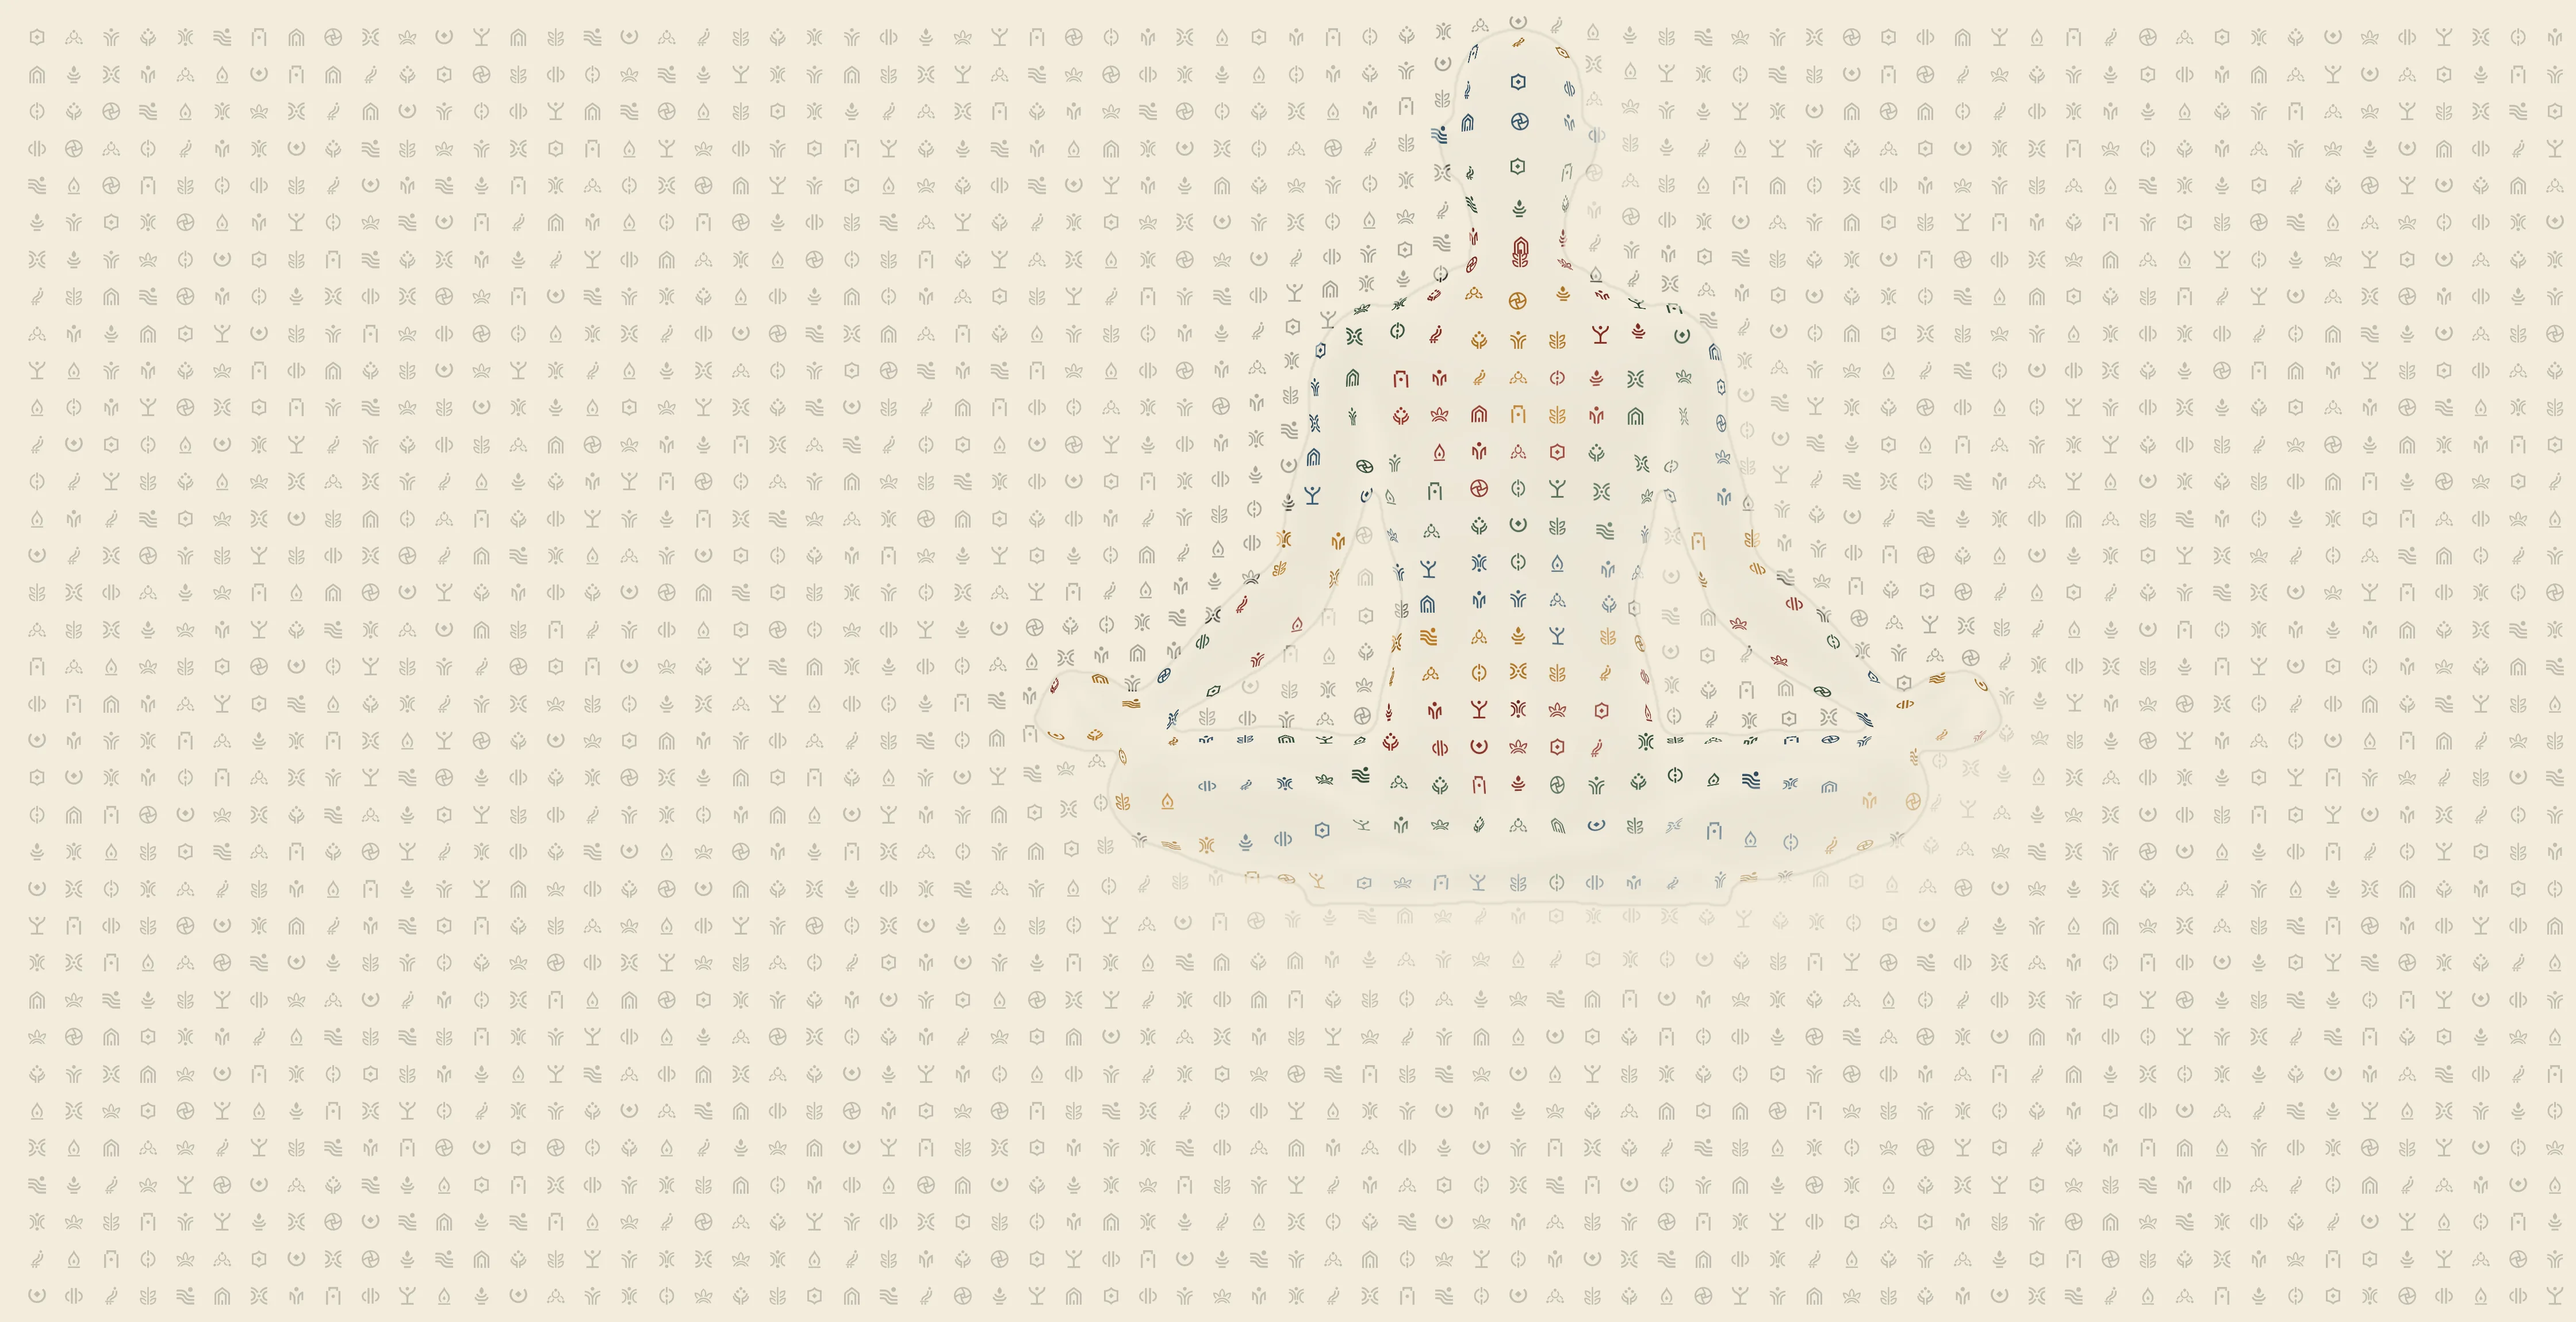
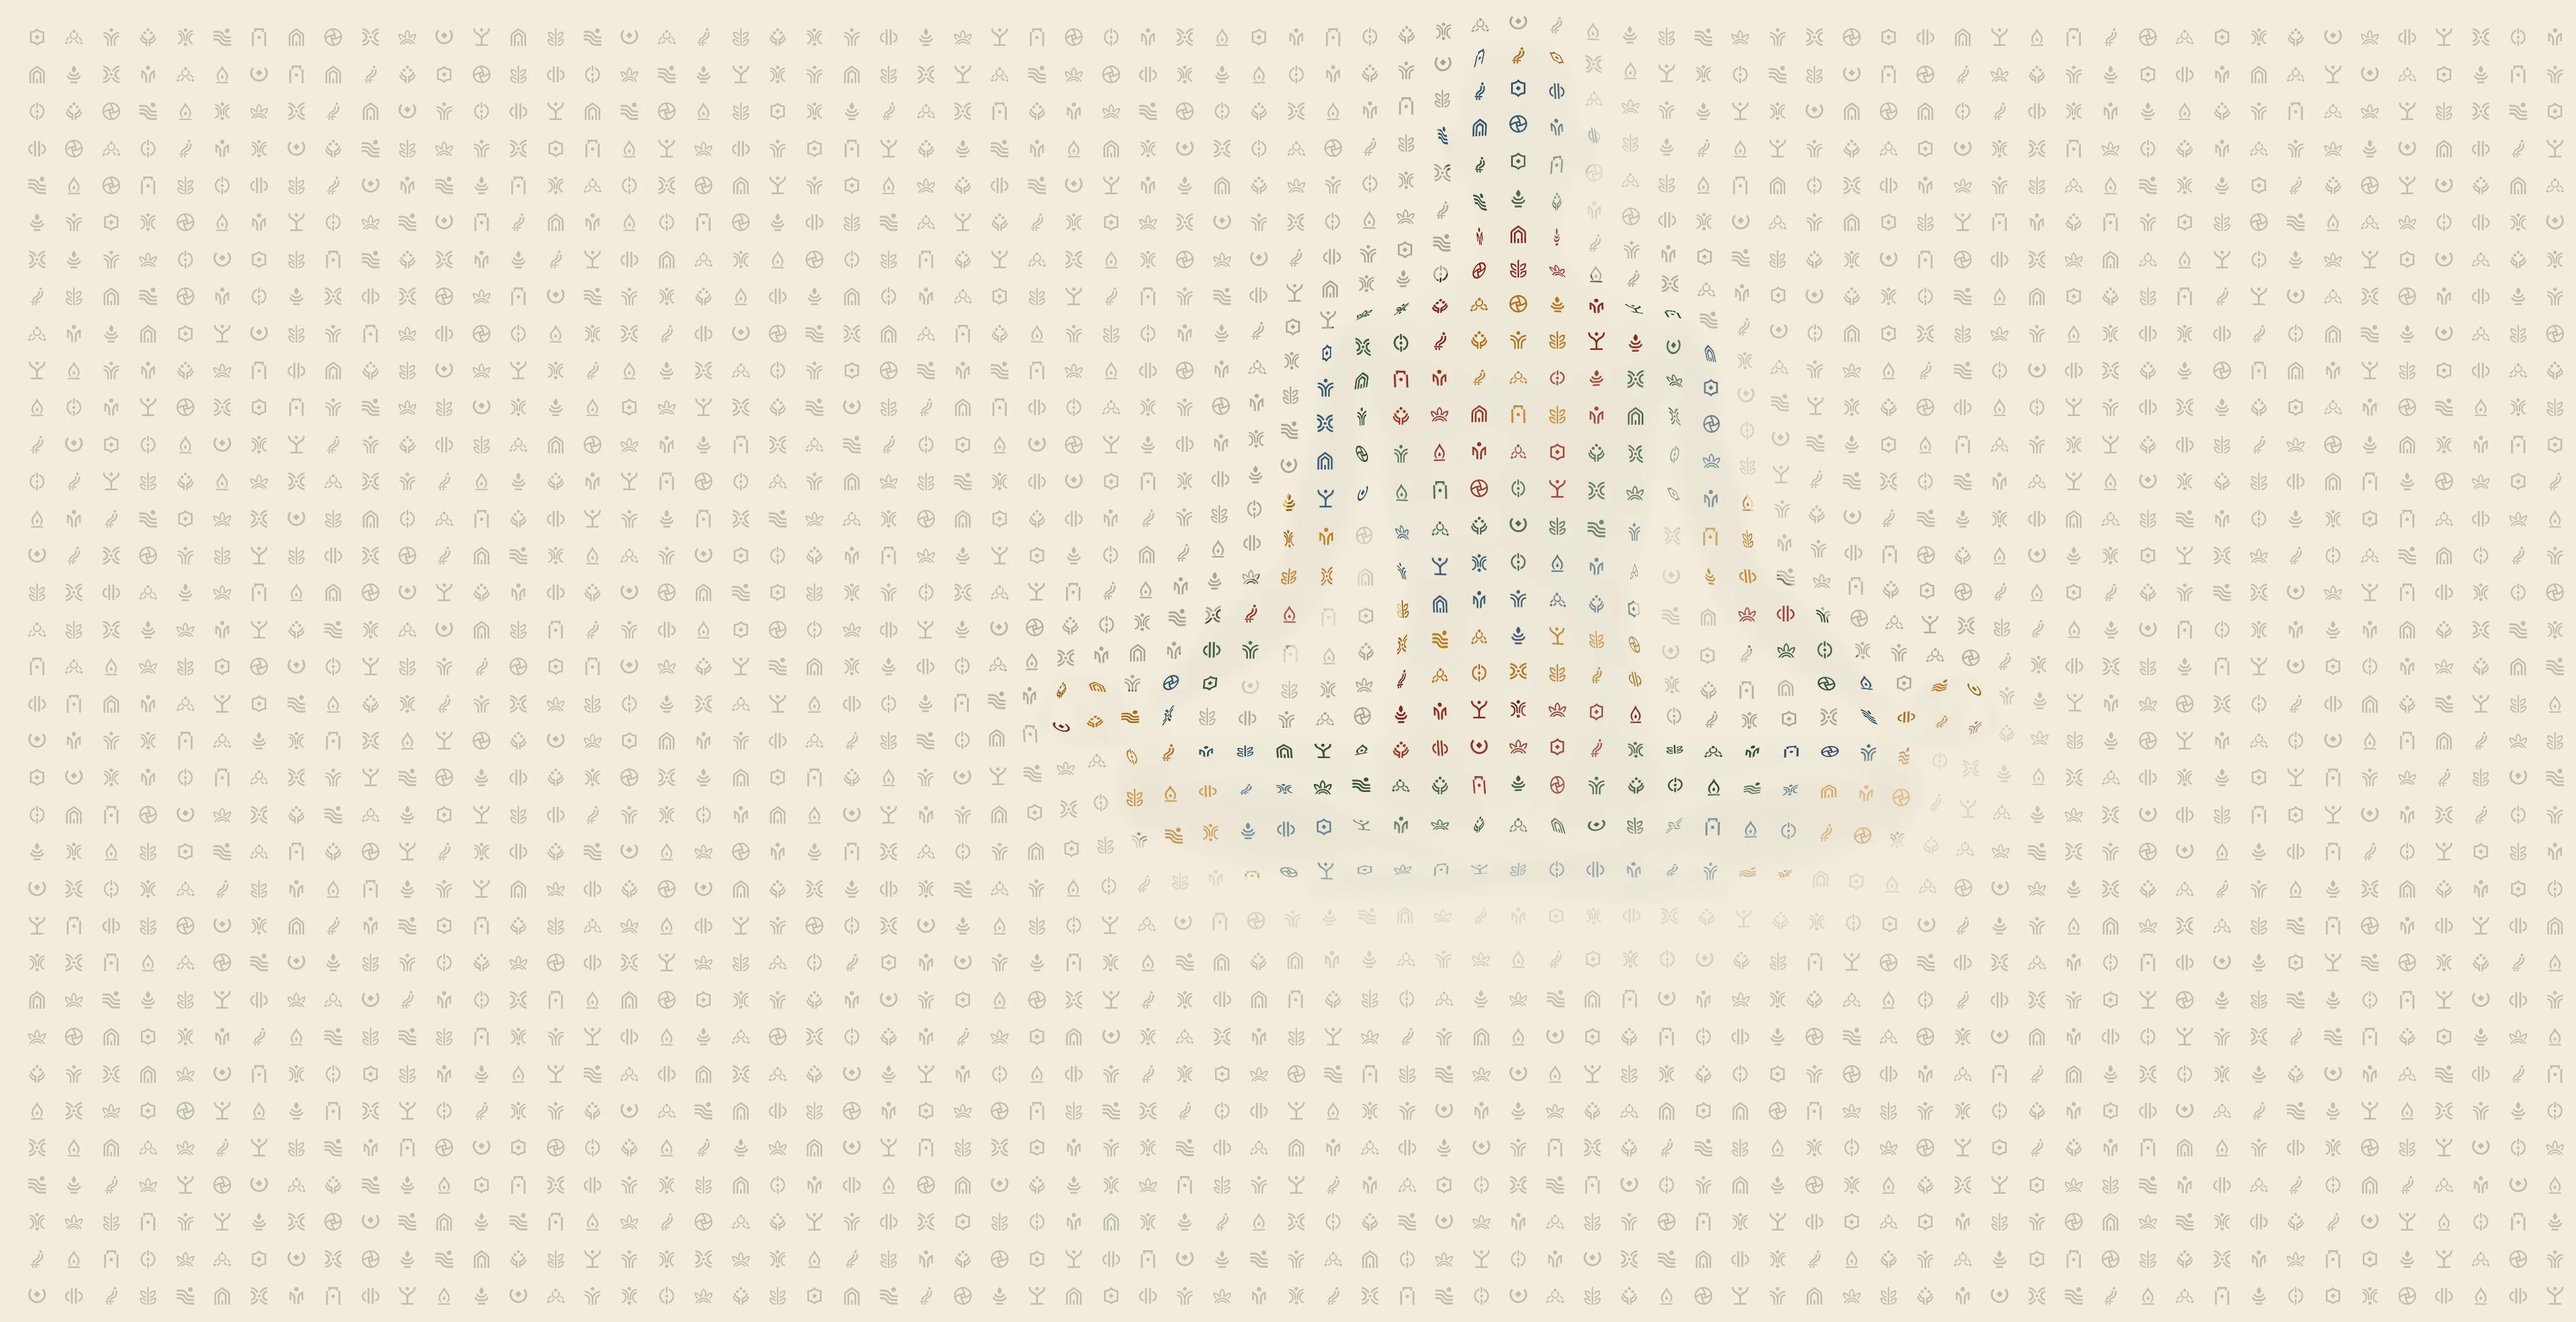
Hero: back to the larger-figure version (533bcd0) with shading and no outline
Claude-Session: https://claude.ai/code/session_01Faxypstm6H8yAswypDCHBa

diff --git a/scripts/hero-glyph-field.py b/scripts/hero-glyph-field.py
@@ -55,13 +55,9 @@ SQUASH_MIN=0.18           # thinnest a glyph gets at the outline (share of its w
 TILT=0.22                 # extra shear of a glyph along the slope (0 = squash only)
 SKIRT=34                  # the sheet slopes down from the body into the field over this distance (units): field glyphs
 SKIRT_DROP=0.55           #   there squash and tilt too; SKIRT_DROP is the slope at the outline relative to the body's edge
-# Magnet (Nov 17): inside the figure, glyphs are drawn towards the outline, so more of them sit where the body turns away
-# and the 3D squash shows. A glyph d units inside the edge (d < MAGNET_D) moves out to MAGNET_D * (d/MAGNET_D)**MAGNET_P.
-MAGNET_D=60               # depth from the outline that the pull reaches (units)
-MAGNET_P=1.7              # strength: 1 = none, higher = glyphs crowd closer to the edge
 # Figure definition (Nov 17): a very faint ink outline along the silhouette, and soft shading of the body itself from the
 # shading map (darker where the form turns away), so the shape reads between the glyphs.
-OUTLINE=0.09              # strength of the outline (0..1 of ink)
+OUTLINE=0.0               # strength of the outline (0..1 of ink); Nov 17: off, shading only
 OUTLINE_W=1.4             # its width (units)
 BODY_SHADE=0.05           # strength of the body shading (0..1 of ink)
 # Figure clarity (Nov 16): colour only inside the figure (FIELD_COLOUR 0), a quiet halo of lighter glyphs just outside
@@ -108,12 +104,6 @@ d_fld=nd.distance_transform_edt(~fm)/S                       # the skirt: the sh
 hb=hb+(~fm)*SKIRT_DROP*SKIRT*np.exp(-d_fld/SKIRT)
 hb=nd.gaussian_filter(hb,3*S)
 hby,hbx=np.gradient(hb); hbx*=S; hby*=S; nzb=1/np.sqrt(1+hbx**2+hby**2)
-dby,dbx=np.gradient(nd.gaussian_filter(d_body,3*S)); dbn=np.hypot(dbx,dby)+1e-6   # points inwards
-def magnet(x,y):
-    i=min(max(P(y),0),H_-1); k=min(max(P(x+DX),0),W_-1); d=d_body[i,k]
-    if d<=0 or d>=MAGNET_D: return 0.0,0.0
-    sh=d-MAGNET_D*(d/MAGNET_D)**MAGNET_P                                       # how far to move out
-    return -sh*dbx[i,k]/dbn[i,k],-sh*dby[i,k]/dbn[i,k]
 def body_glyph(g,x,y):
     i=min(max(P(y),0),H_-1); k=min(max(P(x+DX),0),W_-1)
     f=max(SQUASH_MIN,float(nzb[i,k]))
@@ -152,8 +142,6 @@ for j,y in enumerate(np.arange(-SP,HU+SP,SP)):
             p=np.clip(1-ss((t-edge*0.8)/0.55),0,1)*(1-0.5*t); p=max(p,FLOOR*(1-0.6*t)); p*=1-ss((y-(DBOT-30))/50)
             if u>p: continue
             if np.random.random()<ss((t-0.05)/0.45): col=PC[quarter(x)]
-        if not col and M[min(max(P(y+wy),0),H_-1),min(max(P(x+wx+DX),0),W_-1)]>0.5:
-            mx,my=magnet(x+wx,y+wy); wx+=mx; wy+=my
         X=P(x+wx+DX)-n//2; Y=P(y+wy)-n//2
         if X<0 or Y<0 or X+n>W_ or Y+n>H_: continue
         if col:
@@ -182,14 +170,6 @@ amt=np.where(FG,A*(SHADE_MIN+(1-SHADE_MIN)*sh),amt)
 CI=np.where(FG[...,None],CI*(1-SHADE_DARK*sh[...,None]),CI)
 # Emboss: slopes facing the light (top left) get lighter glyphs, slopes facing away darker ones.
 lit=-(hx*-0.55+hy*-0.83)/gmax; amt=np.clip(amt*(1+EMBOSS*np.clip(lit*2.2,-1,1)),0,1)
-# Figure only (Nov 17): FIGURE_OUT=path also saves the figure's own glyphs on a transparent background, cropped to
-# the figure: no outline, no body shading, no field. Used to put this figure on the band version of the hero.
-if os.environ.get('FIGURE_OUT'):
-    fa=np.where(FG,np.clip(amt,0,1),0.0); fa=np.where(fa>0.02,fa,0)
-    ys_,xs_=np.nonzero(fa); m_=P(6); y0_,y1_,x0_,x1_=max(ys_.min()-m_,0),ys_.max()+m_,max(xs_.min()-m_,0),xs_.max()+m_
-    rgba=np.dstack([np.clip(CI,0,255),fa*255])[y0_:y1_+1,x0_:x1_+1].round().astype(np.uint8)
-    Image.fromarray(rgba,'RGBA').save(os.environ['FIGURE_OUT'],quality=90,method=6)
-    print('figure only:',os.environ['FIGURE_OUT'],rgba.shape[1],'x',rgba.shape[0],'px; stage x %.1f..%.1f, y %.1f..%.1f'%(x0_/S+XL,x1_/S+XL,y0_/S,y1_/S))
 INKC=np.array([30,29,26.])
 bod=nd.gaussian_filter(Mf,1.5*S)*(1-np.clip(Bf,0,1))**1.2                    # deeper tone = more shade
 dline=np.abs(nd.distance_transform_edt(Mf>0.5)-nd.distance_transform_edt(Mf<=0.5))/S

diff --git a/docs/edit-ledger.md b/docs/edit-ledger.md
@@ -756,3 +756,13 @@ commits. Hashes below were backfilled for commits made before the ledger existed
 - **Waterfall shape.** The single curve is replaced by straight drops with notched ledges stepping out to the left: beside the copy, below the button, then two more steps to the bottom-left edge. The corners are softly rounded and the edge is cleaner than the first stepped version (`hero-field-shape.svg`).
 - Provisional: committed locally only. Dat asked not to push until he says so.
 - Why: Dat, Nov 17.
+
+### 2026-11-17 · Hero: back to the larger-figure version, shading only (pushed) (`home-04-lanes` only)
+- The hero goes back to the version from commit `533bcd0`:
+  - figure 22% larger, all 20 glyphs on a straight grid, 3D bending of the figure glyphs
+  - smooth waterfall curve ending past the left margin
+  - field fade at 70% to 87%
+- The outline is off (`OUTLINE` 0); the soft body shading stays (`BODY_SHADE` 0.05).
+- Undone from later trials: the magnet pull toward the outline and the notched waterfall (`6079da4`). Kept: the generator's `FIGURE_OUT` export (`5a6d0a2`), which doesn't change the page.
+- The band version with the glyph figure stays on the local branch `bands-glyph-figure`, not pushed.
+- Why: Dat, Nov 17 ("go back to this exact version and push, just shading no outline").
